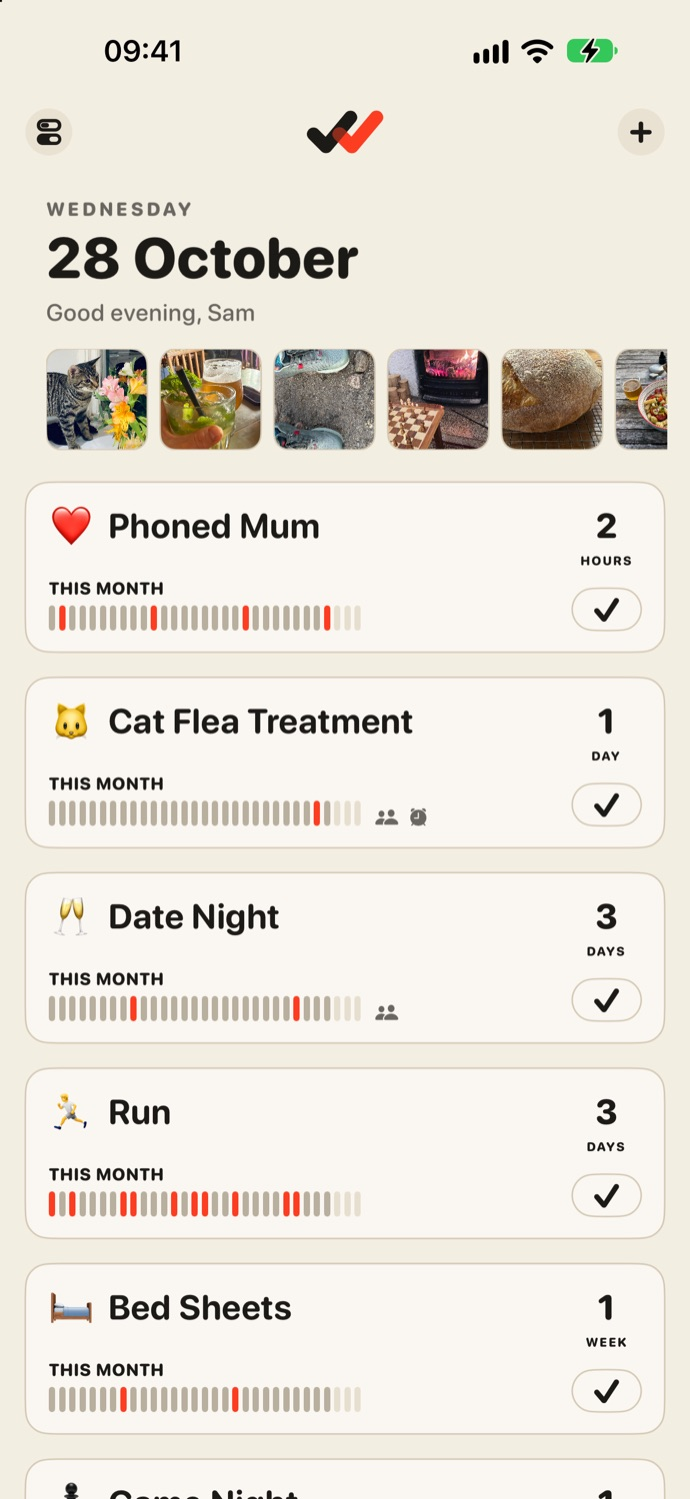
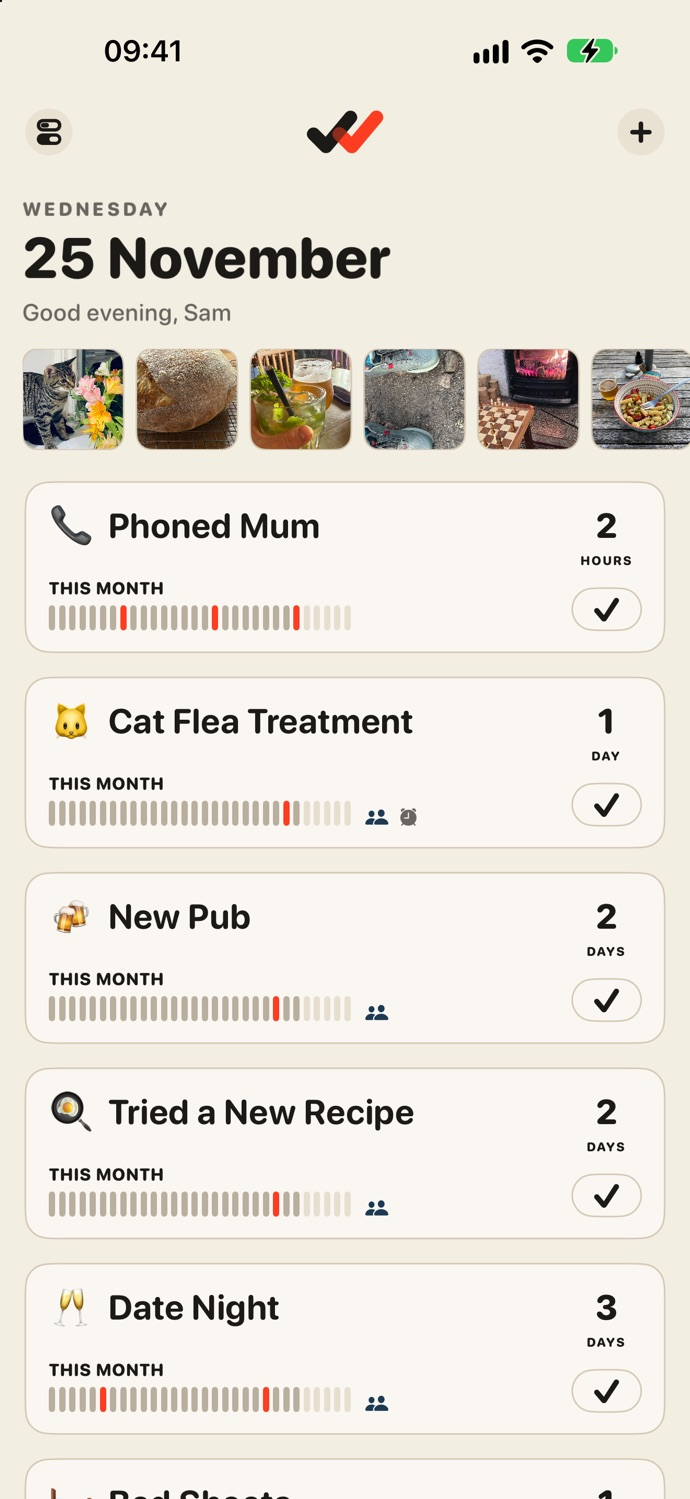
Match the 1.0.1 App Store words: 'When did you last…?', no journal wording; new screens and share card; privacy notes the Settings links; reminders can be monthly or yearly

diff --git a/index.html b/index.html
@@ -3,13 +3,13 @@
 <head>
 <meta charset="utf-8">
 <meta name="viewport" content="width=device-width, initial-scale=1">
-<title>Retainer — journal, track, share, repeat</title>
-<meta name="description" content="Keep track of the things that matter, together. See who did it last and how long it’s been. A journal that writes itself. No account, no ads, no data collected.">
+<title>Retainer — When did you last…?</title>
+<meta name="description" content="Remember the things you’ve done, see how long it’s been, and share individual activities with the people you choose. Free, with no ads and no data collected.">
 <meta property="og:type" content="website">
 <meta property="og:url" content="https://retainerapp.github.io/">
 <meta property="og:site_name" content="Retainer">
-<meta property="og:title" content="Retainer — journal, track, share, repeat">
-<meta property="og:description" content="Keep track of the things that matter, together. See who did it last and how long it’s been.">
+<meta property="og:title" content="Retainer — When did you last…?">
+<meta property="og:description" content="Remember the things you’ve done, see how long it’s been, and share individual activities with the people you choose.">
 <meta property="og:image" content="https://retainerapp.github.io/images/share-card.png">
 <meta property="og:image:width" content="1200">
 <meta property="og:image:height" content="630">
@@ -43,12 +43,12 @@
 
     <section class="hero">
       <picture><source srcset="/icon-dark.svg" media="(prefers-color-scheme: dark)"><img class="appicon appicon--hero" src="/icon-light.svg" alt="The Retainer app icon" width="88" height="88"></picture>
-      <h1>Journal, track, share, repeat.</h1>
+      <h1>When did you last&hellip;?</h1>
       <p class="lede">
-        When did you last change the sheets? Call home? Go somewhere new together? Retainer
-        remembers, with a note, a photo, a place, whatever you want to keep. Keep it to yourself
-        or share it with the people closest to you. For those who&rsquo;d rather keep track than
-        keep score.
+        When did you last phone Mum? Who gave the cat its flea treatment? Which wine did you
+        love on holiday? Retainer helps you remember the things you&rsquo;ve done, whatever they
+        happen to be. Check in when something happens, see how long it&rsquo;s been, and share
+        individual activities with the people you choose.
       </p>
       <p class="store"><a class="store-badge" href="https://apps.apple.com/app/retainer/id6821579239"><picture><source srcset="/images/app-store-badge-white.svg" media="(prefers-color-scheme: dark)"><img src="/images/app-store-badge-black.svg" alt="Download on the App Store" width="150" height="50"></picture></a></p>
       <p class="eyebrow">Free on iPhone</p>
@@ -58,48 +58,59 @@
       <div>
         <h2>How long has it been?</h2>
         <p>
-          Every card shows the answer, so one look tells you where things stand. Want a nudge?
-          Retainer can remind you when it&rsquo;s time. There are no streaks to break. Miss a month
-          and nothing is lost.
+          Every card shows the answer, so one look tells you where things stand. There are no
+          streaks or scores to chase. Want a nudge? Add an optional reminder for when it&rsquo;s
+          time.
         </p>
       </div>
-      <figure class="shot"><img src="/images/home.jpg" width="690" height="1499" alt="Retainer’s home screen. Each card shows how long it has been: two hours since phoning Mum, a day since the cat’s flea treatment, three days since date night."></figure>
+      <figure class="shot"><img src="/images/home.jpg" width="690" height="1499" alt="Retainer’s home screen. Each card shows how long it has been: two hours since phoning Mum, a day since the cat’s flea treatment, two days since the new pub."></figure>
     </section>
 
     <section class="pair pair--flip">
       <div>
-        <h2>Check in together</h2>
+        <h2>One place for all sorts of things</h2>
         <p>
-          Invite your partner or anyone close to an action, so you can both check in with your own
-          notes and photos. Share the good times: date nights, days out, the pubs you&rsquo;ve
-          tried. Share the jobs too: see when the cat last had its flea treatment and who did it,
-          so nothing is missed or done twice. Everything else stays yours alone.
+          Changing the bedsheets, watering the garden, looking after your bike, finishing books,
+          trying wines, visiting new places. Some things you do again and again. Others you
+          simply want to remember. You shouldn&rsquo;t need a different app just to keep a simple
+          record of each one. Start with your own, or pick from more than a hundred ideas.
         </p>
       </div>
-      <figure class="shot"><img src="/images/together.jpg" width="690" height="1499" loading="lazy" alt="A shared action, Cat Flea Treatment, with check-ins and photos from Alex and Sam."></figure>
+      <figure class="shot"><img src="/images/library.jpg" width="690" height="1499" loading="lazy" alt="Retainer’s Library of ideas: Read a Book, Haircut, Smoke Alarms, Filled Up with Fuel, Car Serviced, New Restaurant and more."></figure>
     </section>
 
     <section class="pair">
       <div>
-        <h2>A journal that writes itself</h2>
+        <h2>Who did it last?</h2>
         <p>
-          Keeping a diary is hard. Retainer never hands you a blank page. Each check-in is a
-          small entry, and month by month they become a record of your life that you never had
-          to sit down and write. What the optician said. Which film you watched. How the garden
-          looked this time last year.
+          Share an individual activity with your partner, a family member or a friend. You can
+          both check in, add notes and photos, and see who did what and when. No more wondering
+          who last watered the plants or gave the cat its flea treatment. And sharing one
+          activity doesn&rsquo;t mean sharing the rest.
         </p>
       </div>
-      <figure class="shot"><img src="/images/journal.jpg" width="690" height="1499" loading="lazy" alt="Cooked Together: a first sourdough loaf and a pasta salad in the garden, each with a note."></figure>
+      <figure class="shot"><img src="/images/together.jpg" width="690" height="1499" loading="lazy" alt="A shared action, Cat Flea Treatment, with check-ins and photos from Alex and you."></figure>
     </section>
 
     <section class="pair pair--flip">
       <div>
-        <h2>A note, a photo and the place</h2>
+        <h2>A history worth keeping</h2>
         <p>
-          Checking in takes a moment: add a few words, a photo and where you were, or nothing at
-          all. Every place goes on a map, so you can find your way back to that beach, that walk,
-          that pub. Forgot on the day? Add a photo you took and Retainer can set the date, time
-          and place from it.
+          Every check-in adds to a history you can look back on. It can be just a date, or you
+          can include a note, photo or place. Remember what you thought of a book, which wine you
+          enjoyed, where you went together, or how the garden looked last spring.
+        </p>
+      </div>
+      <figure class="shot"><img src="/images/history.jpg" width="690" height="1499" loading="lazy" alt="Tried a New Recipe: a first sourdough loaf and a pasta salad in the garden, each with a note."></figure>
+    </section>
+
+    <section class="pair">
+      <div>
+        <h2>Remember where</h2>
+        <p>
+          Browse previous check-ins, look back through the calendar and statistics, or revisit
+          saved places on a map. Forgot to check in at the time? Add an earlier date. Retainer can
+          also use the date and location saved in a photo to help fill in the details.
         </p>
       </div>
       <figure class="shot"><img src="/images/places.jpg" width="690" height="1499" loading="lazy" alt="New Pub’s stats: check-ins by weekday and by month, and a map of every pub visited along the coast."></figure>
@@ -108,7 +119,8 @@
     <section>
       <h2>Private by design</h2>
       <p style="max-width:var(--measure)">
-        No account, no ads. Your journal lives on your iPhone and in your own iCloud.
+        Your records live on your iPhone and sync through iCloud. No separate Retainer
+        account, no ads, and no personal data collected by the developer.
       </p>
       <ul class="points">
         <li>Only the people you invite can see what you share</li>
@@ -123,8 +135,8 @@
         <p class="eyebrow">Availability</p>
         <h2 style="margin-bottom:.6rem">Free on the App&nbsp;Store</h2>
         <p style="margin-bottom:.8rem">
-          More than a hundred ideas to get you started, from the dentist to date nights. Or
-          begin with your own.
+          Completely free, with no ads, subscriptions or in-app purchases. More than a hundred
+          ideas to get you started, or create your own.
         </p>
         <p class="store"><a class="store-badge" href="https://apps.apple.com/app/retainer/id6821579239"><picture><source srcset="/images/app-store-badge-white.svg" media="(prefers-color-scheme: dark)"><img src="/images/app-store-badge-black.svg" alt="Download on the App Store" width="150" height="50"></picture></a></p>
         <p style="color:var(--muted);margin-bottom:0">

diff --git a/privacy.html b/privacy.html
@@ -29,10 +29,10 @@
   <div class="wrap wrap--prose prose">
 
     <h1>Privacy Policy</h1>
-    <p class="updated data">Retainer · last updated 29 October 2026</p>
+    <p class="updated data">Retainer · last updated 25 November 2026</p>
 
     <p class="lede">
-      Retainer is a private journal organised around the things you do. This policy
+      Retainer keeps a private record of the things you do. This policy
       explains, in plain terms, what the app stores, where it goes, and who can see it.
     </p>
 
@@ -47,7 +47,7 @@
       Retainer is made by Tom Walton, contactable at <strong><a href="mailto:retainerapp@icloud.com">retainerapp@icloud.com</a></strong>.
       In data-protection terms, there is very little for me to be responsible for.
       Everything the app stores lives in your own Apple account. I operate no servers,
-      hold no copy of your journal, and have no technical means of reading it.
+      hold no copy of your records, and have no technical means of reading them.
     </p>
 
     <h2>Where your data lives</h2>
@@ -59,9 +59,9 @@
         your data syncs between your devices and reaches anyone you choose to share with.</li>
     </ul>
     <p>
-      <strong>This matters:</strong> your journal is held in your iCloud storage, under
-      your Apple account. I do not operate servers that hold it, and I have no technical
-      means of reading it. Apple processes it on your behalf under Apple’s privacy policy.
+      <strong>This matters:</strong> your records are held in your iCloud storage, under
+      your Apple account. I do not operate servers that hold them, and I have no technical
+      means of reading them. Apple processes them on your behalf under Apple’s privacy policy.
     </p>
 
     <h2>What the app stores</h2>
@@ -146,7 +146,7 @@
     </p>
     <p>
       This is a <strong>one-way read</strong>. Nothing about you and nothing
-      from your journal is sent when it happens, and the library works from a copy stored in
+      from your records is sent when it happens, and the library works from a copy stored in
       the app if the fetch fails or you are offline.
     </p>
 
@@ -161,6 +161,14 @@
       <li>I do not build profiles of you. The only decision the app makes about you on its
         own is the age check described under Children, and it is made on your iPhone.</li>
     </ul>
+
+    <h2>Links in the app</h2>
+    <p>
+      Settings &rarr; Support Retainer can open Retainer&rsquo;s App Store page to leave a rating,
+      your iPhone&rsquo;s share sheet to recommend it, or Retainer&rsquo;s Instagram and Threads
+      pages in your browser. The app sends nothing about you when you use them. The App Store,
+      Instagram and Threads have their own privacy policies.
+    </p>
 
     <h2>Diagnostics</h2>
     <p>
@@ -195,16 +203,16 @@
         a shared action removes your copy from it entirely.</li>
     </ul>
     <p>
-      Because your journal is in your own iCloud account, deleting it there deletes it
-      properly. I hold no backup copies of it.
+      Because your records are in your own iCloud account, deleting them there deletes them
+      properly. I hold no backup copies of them.
     </p>
 
     <h2>Your rights</h2>
     <p>
       Data protection law gives you rights over your personal data, such as seeing it,
-      correcting it and having it deleted. Your journal is in your own Apple account, so you
-      can see, change or delete it yourself, in the app and in iOS Settings. I cannot see it
-      or change it.
+      correcting it and having it deleted. Your records are in your own Apple account, so you
+      can see, change or delete them yourself, in the app and in iOS Settings. I cannot see
+      them or change them.
     </p>
     <p>
       The only personal data I hold is what you send me by email. To ask about that, write to

diff --git a/terms.html b/terms.html
@@ -29,10 +29,10 @@
   <div class="wrap wrap--prose prose">
 
     <h1>Terms of Use</h1>
-    <p class="updated data">Retainer · last updated 31 October 2026</p>
+    <p class="updated data">Retainer · last updated 25 November 2026</p>
 
     <p class="lede">
-      Retainer is a journal for the things you do, and a way to share some of them with
+      Retainer is a record of the things you do, and a way to share some of them with
       people you choose. These terms cover what you can share, how you are protected, and
       what to do if something goes wrong.
     </p>
@@ -55,7 +55,7 @@
     <p>Retainer is for adults: you need to be 18 or over to use it. Where the law requires
       it, Retainer checks this with Apple.</p>
 
-    <h2>Your journal stays yours</h2>
+    <h2>Your records stay yours</h2>
     <ul>
       <li>What you write and the photos you add belong to you. Retainer claims no rights
         over them.</li>
@@ -83,8 +83,8 @@
       <li>scams, or someone else’s private details or photos without their permission.</li>
     </ul>
     <p>
-      Writing honestly about how you feel, including when things are hard, is what a journal
-      is for, and is always welcome.
+      Writing honestly about how you feel, including when things are hard, is always
+      welcome.
     </p>
 
     <h2>How you are protected</h2>
@@ -101,7 +101,7 @@
     <p>
       Everything shared on Retainer lives in the iCloud accounts of the people on that action,
       not on any server of mine. So I cannot see it, and I cannot use any technology to scan,
-      filter or remove it. That is also what keeps your journal private, including from me.
+      filter or remove it. That is also what keeps your records private, including from me.
     </p>
     <p>
       If any content of serious concern is shared, the people who can act on it are the people
@@ -154,7 +154,7 @@
       will always work perfectly. Reminders and alerts depend on iOS, which can delay or hold them
       back, for example in Low Power Mode or a Focus, so please don&rsquo;t rely on Retainer alone
       for anything important, such as medication or appointments. Retainer is not a medical device
-      and does not give medical advice. Your journal is stored on your iPhone and in your own
+      and does not give medical advice. Your records are stored on your iPhone and in your own
       iCloud, not with me, so I can&rsquo;t recover anything that is deleted or lost.
     </p>
 

diff --git a/support.html b/support.html
@@ -77,8 +77,8 @@
 
     <h3>How do reminders work?</h3>
     <p>
-      Two kinds. A <strong>recurring</strong> reminder fires at a time you pick, daily or
-      weekly. An <strong>after check-in</strong> reminder fires a set period after the last
+      Two kinds. A <strong>recurring</strong> reminder fires at a time you pick, daily,
+      weekly, monthly or yearly. An <strong>after check-in</strong> reminder fires a set period after the last
       time you checked in — which is the one you want for anything on a cycle, like a filter
       that needs replacing every three months.
     </p>
